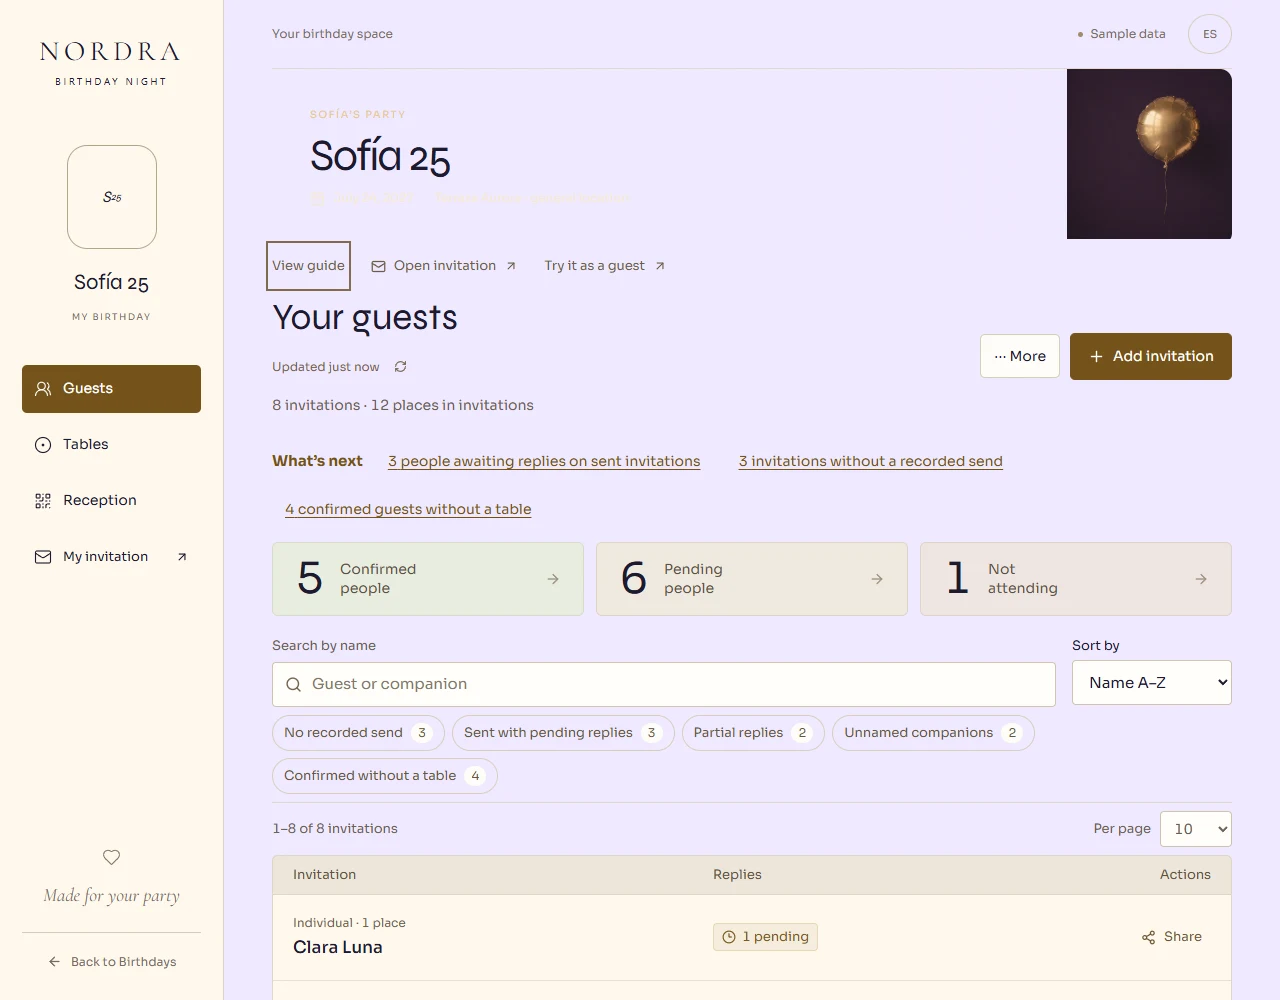
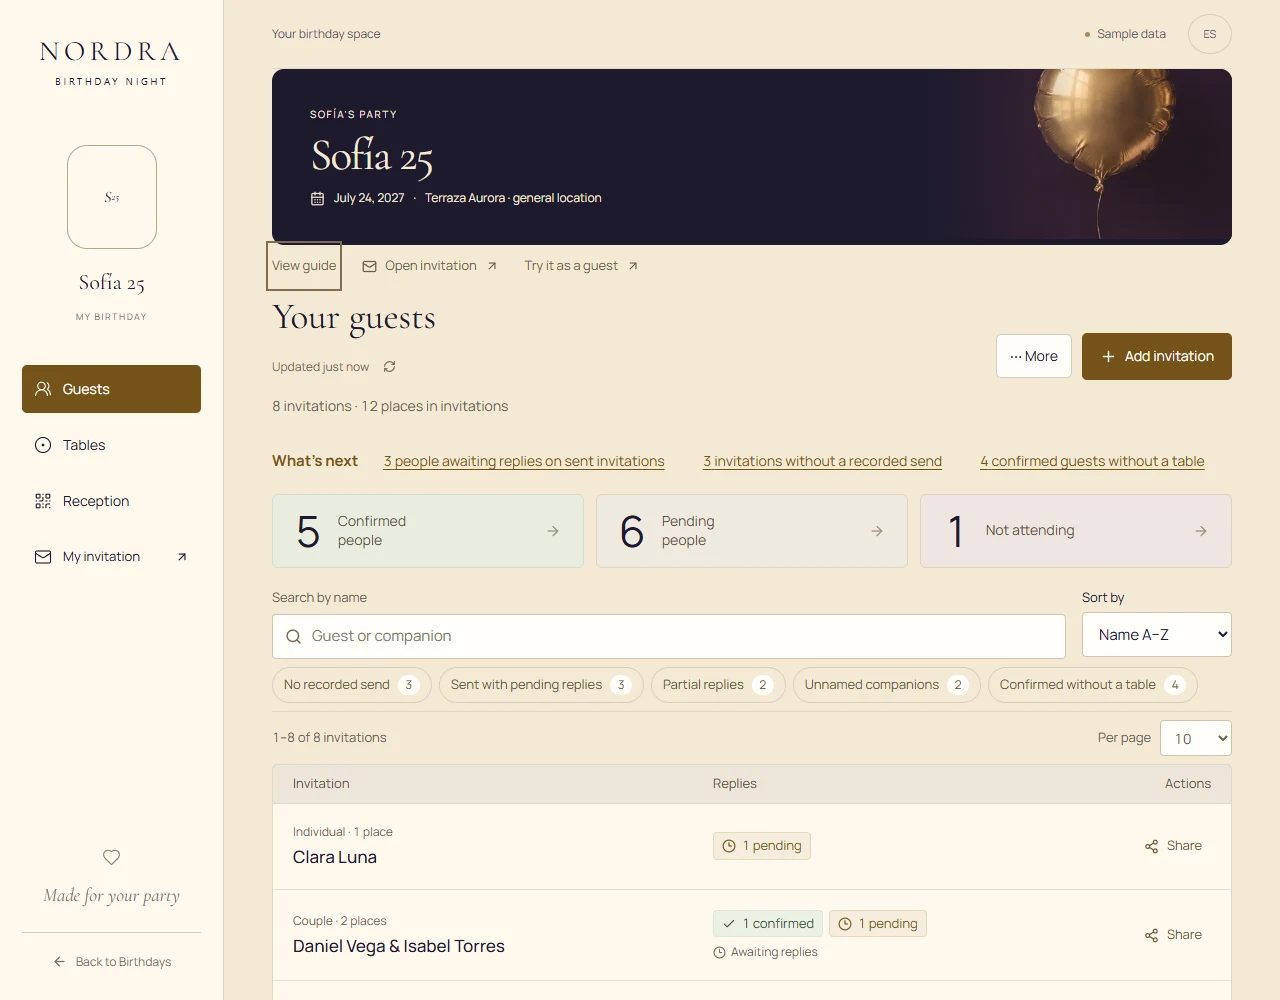
Verifica contraste, tipografía, imágenes y aislamiento de Conexión 27

diff --git a/src/styles/birthday-panel.css b/src/styles/birthday-panel.css
@@ -1,16 +1,21 @@
 @import './noche-fonts.css';
 
-.wedding-workspace[data-occasion=birthday]{--occasion-bg:#f4e9d3;--occasion-title:NocheSerif,Georgia,serif;font-family:NocheManrope,sans-serif}
-.wedding-workspace[data-occasion=birthday] .workspace-welcome{isolation:isolate;background:#1d1a2e;color:#f4e9d3;border-radius:12px;overflow:hidden;padding:clamp(14px,3vw,38px)}
-.wedding-workspace[data-occasion=birthday] .workspace-welcome :is(h1,p,span){color:#f4e9d3}
-.wedding-workspace[data-occasion=birthday] .workspace-welcome .workspace-eyebrow{color:#e6c98e}
-.wedding-workspace[data-occasion=birthday] .workspace-welcome-art{background:#1d1a2e}
-.wedding-workspace[data-occasion=birthday] .workspace-welcome-art img{object-fit:cover}
-.wedding-workspace[data-occasion=birthday] .workspace-welcome-art::after{background:linear-gradient(90deg,#1d1a2e,transparent 48%)}
-.wedding-workspace[data-occasion=birthday] .workspace-monogram{font-style:italic}
-.wedding-workspace[data-occasion=birthday] :is(.ledger-stat-value,.boreal-summary strong,.boreal-table-center>span){font-family:NocheManrope,sans-serif;font-variant-numeric:lining-nums tabular-nums}
+html .wedding-workspace[data-occasion=birthday]{--occasion-bg:#f4e9d3;--occasion-title:NocheSerif,Georgia,serif;font-family:NocheManrope,sans-serif}
+html .wedding-workspace[data-occasion=birthday] .workspace-welcome{isolation:isolate;background:#1d1a2e;color:#f4e9d3;border-radius:12px;overflow:hidden;padding:clamp(14px,3vw,38px)}
+html .wedding-workspace[data-occasion=birthday] .workspace-welcome :is(#workspace-title,p,span){color:#f4e9d3}
+html .wedding-workspace[data-occasion=birthday] .workspace-welcome .workspace-eyebrow{color:#e6c98e}
+html .wedding-workspace[data-occasion=birthday] .workspace-welcome-art{background:#1d1a2e}
+html .wedding-workspace[data-occasion=birthday] .workspace-welcome-art img{object-fit:cover}
+html .wedding-workspace[data-occasion=birthday] .workspace-welcome-art::after{background:linear-gradient(90deg,#1d1a2e,transparent 48%)}
+html .wedding-workspace[data-occasion=birthday] .workspace-monogram{font-style:italic}
+html .wedding-workspace[data-occasion=birthday] :is(.ledger-stat-value,.boreal-summary strong,.boreal-table-center>span){font-family:NocheManrope,sans-serif;font-variant-numeric:lining-nums tabular-nums}
 html[data-theme=dark] .wedding-workspace[data-occasion=birthday]{--occasion-bg:#1d1a2e}
 html[data-theme=dark] .wedding-workspace[data-occasion=birthday] .workspace-section-content{--occasion-bg:#f4e9d3;background:var(--occasion-bg);border-radius:10px;padding:clamp(10px,2vw,24px)}
 html[data-theme=dark] .wedding-workspace[data-occasion=birthday] .workspace-quick-links :is(a,button.guide-trigger){color:#e6c98e}
 html[data-theme=dark] .wedding-workspace[data-occasion=birthday] .workspace-topbar{background:#3b2f55;color:#f4e9d3}
 html[data-theme=dark] .wedding-workspace[data-occasion=birthday] .workspace-topbar :is(span,button){color:#f4e9d3;background:transparent}
+
+html .wedding-workspace[data-occasion=birthday] :is(.workspace-list-footer,.workspace-footer,.workspace-list-footer button){color:#5d5164}
+html:not([data-theme=dark]) .wedding-workspace[data-occasion=birthday] .workspace-topbar,
+html:not([data-theme=dark]) .wedding-workspace[data-occasion=birthday] .workspace-topbar :is(span,button){color:#5d5164}
+html[data-theme=dark] .wedding-workspace[data-occasion=birthday] .workspace-footer{color:#d9c7b0}

diff --git a/src/site/styles/birthday-noche.css b/src/site/styles/birthday-noche.css
@@ -1,11 +1,13 @@
 @import '../../styles/noche-fonts.css';
 
 .theme-birthday{font-family:NocheManrope,Manrope,sans-serif}
-.theme-birthday :is(h1,h2,h3){font-family:NocheSerif,Georgia,serif;font-weight:550;letter-spacing:-.035em}
+body[data-scene=cumpleanos] .scene.theme-birthday :is(h1,h2,h3){font-family:NocheSerif,Georgia,serif;font-weight:550;letter-spacing:-.035em}
 .theme-birthday .birthday-hero .business-title-line:last-child{font-style:italic;color:var(--accent)}
 .theme-birthday .occasion-stage .wedding-dashboard::after{top:84.7%}
-html[lang=en] .theme-birthday .occasion-stage .wedding-dashboard::after{top:89.5%}
+html[lang=en] .theme-birthday .occasion-stage .wedding-dashboard::after{top:80.4%}
 .theme-birthday .invite-card{background:var(--bg);border-color:var(--line)}
 .dark .theme-birthday .invite-card{background:#30263f}
 .theme-birthday .invite-featured{border-color:var(--accent)}
 .theme-birthday .light-gathering::after{content:none}
+
+body[data-scene=cumpleanos] .theme-birthday :is(.horizon-button,.live-try){background:var(--accent);color:var(--bg)}

diff --git a/cumpleanos.html b/cumpleanos.html
@@ -38,7 +38,6 @@
 <ol class="process-list"><li><div class="process-step-copy"><h3>Cuéntanos tu idea de fiesta</h3></div></li><li><div class="process-step-copy"><h3>Elegimos colores y detalles</h3></div></li><li><div class="process-step-copy"><h3>Invita a tus personas favoritas</h3></div></li></ol>
 <div class="process-finish"><a class="terms-link" href="/terminos-del-servicio.html" target="_blank" rel="noopener">Consultar condiciones del servicio ↗</a></div>
 </section><footer class="home-continuation studio-footer home-closing" id="cumpleanos-contacto-invitaciones">
- 
  <p class="eyebrow">NORDRA STUDIO · CUMPLEAÑOS</p>
  <h2>Ahora sí<br><span>arma el plan</span></h2>
  <div class="contact-layout"><p>Cuéntanos la fecha y el estilo de tu fiesta.</p><div><a class="primary-action" href="https://wa.me/528129022231?text=Hola%2C%20Nordra.%20Me%20gustar%C3%ADa%20una%20invitaci%C3%B3n%20digital%20para%20un%20cumplea%C3%B1os." target="_blank" rel="noopener" data-analytics-whatsapp="closing">Cuéntanos de tu cumple <span aria-hidden="true">↗</span></a></div></div>
